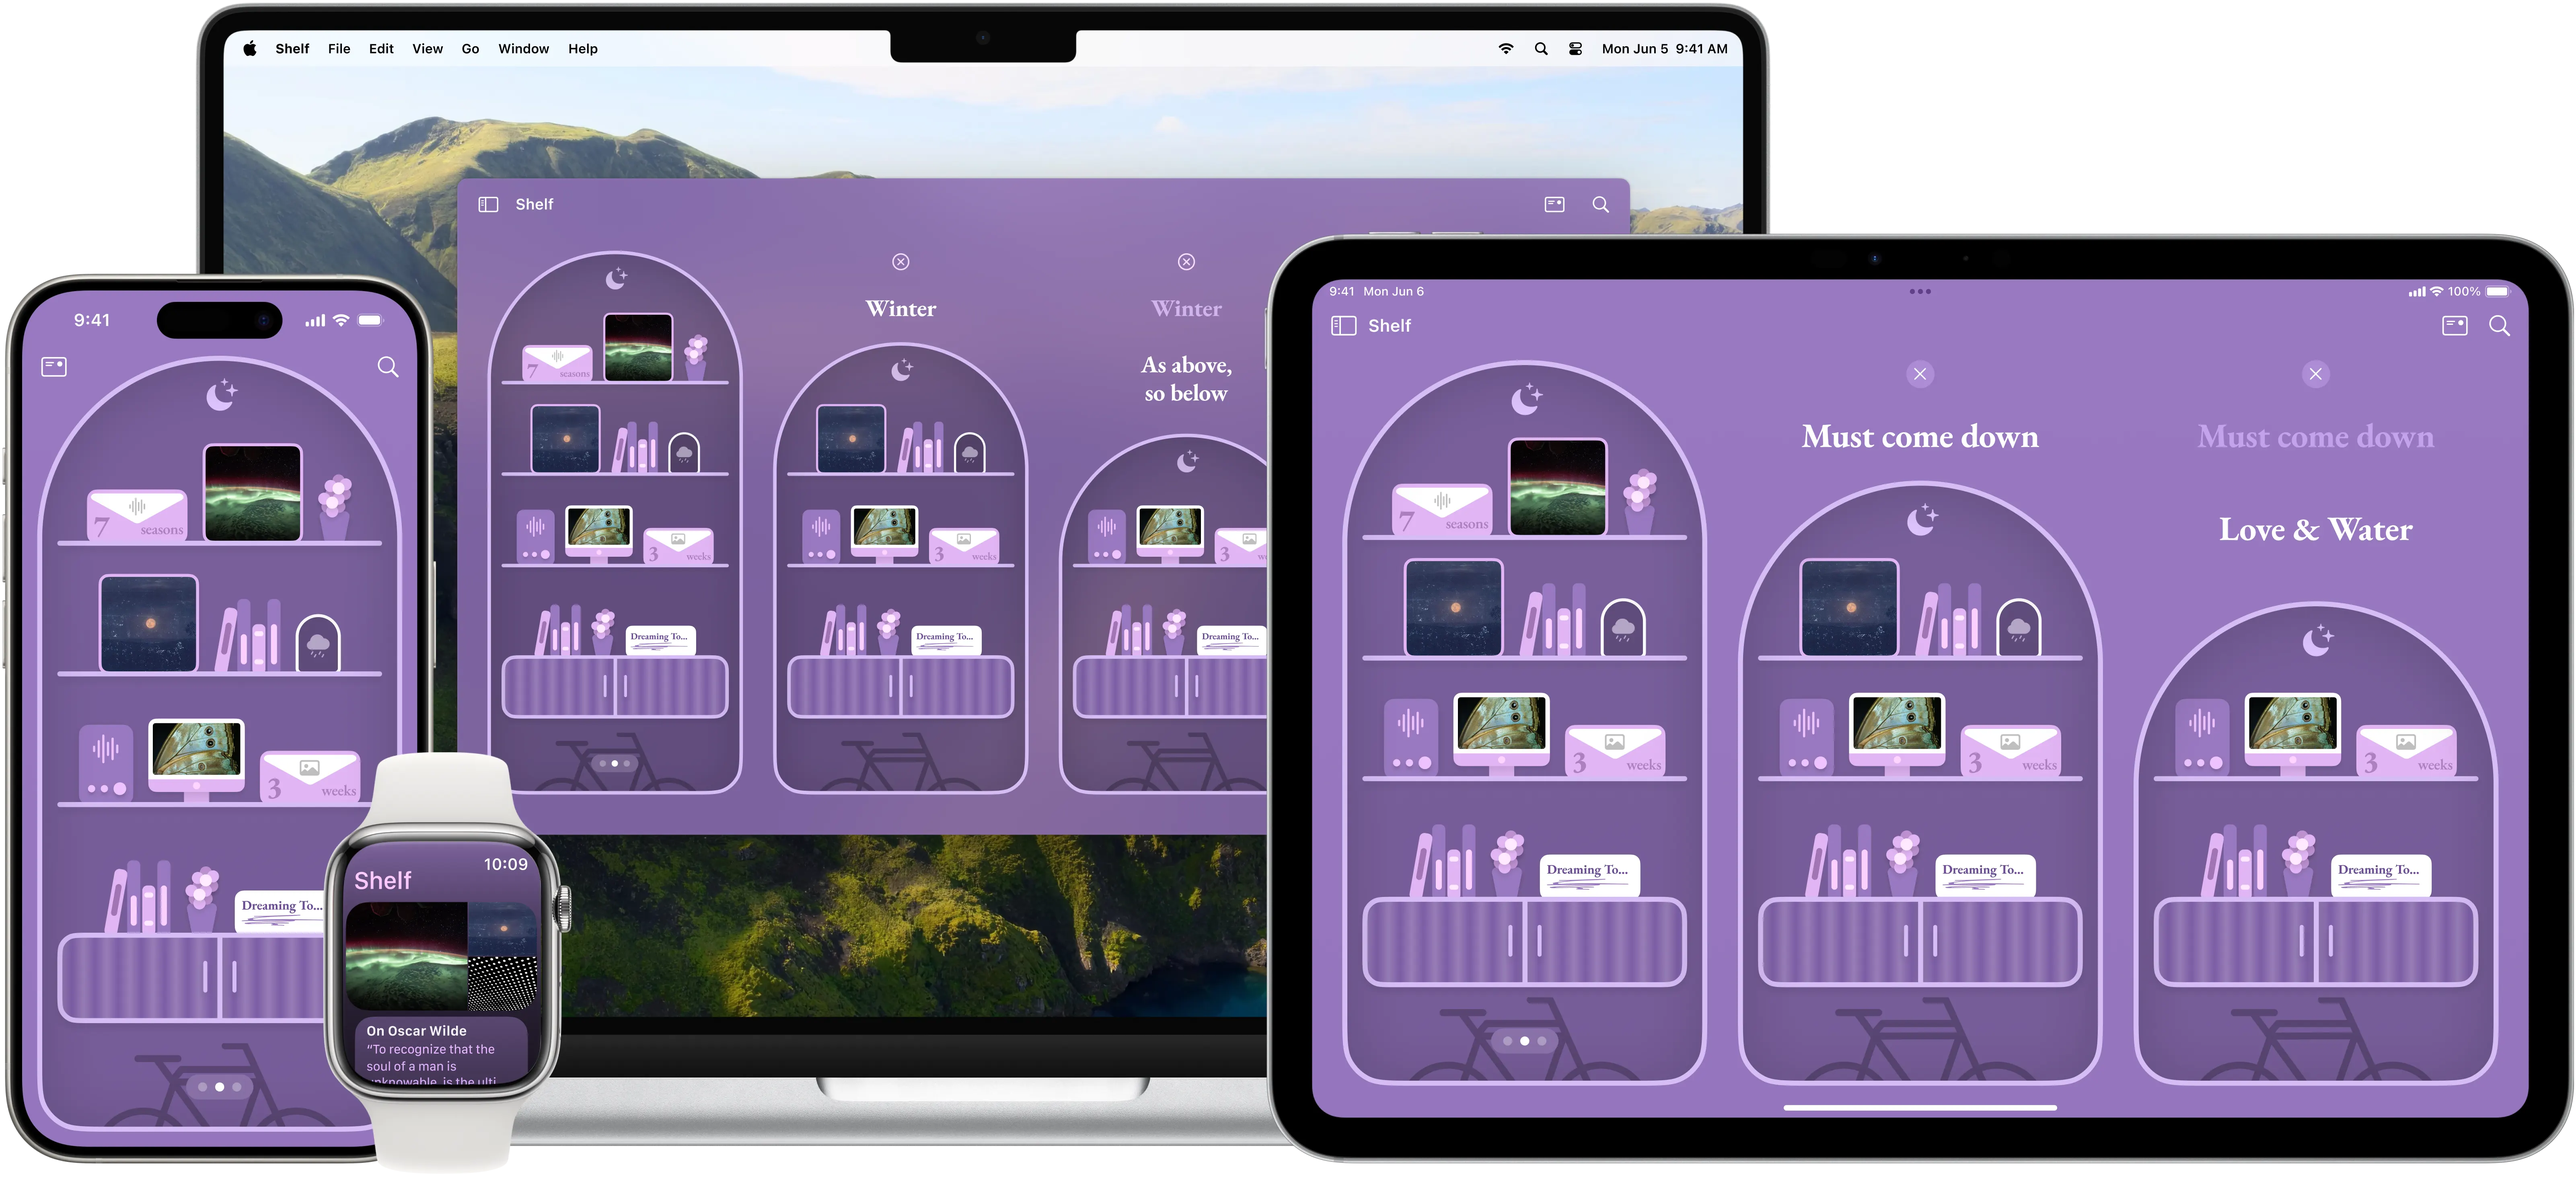
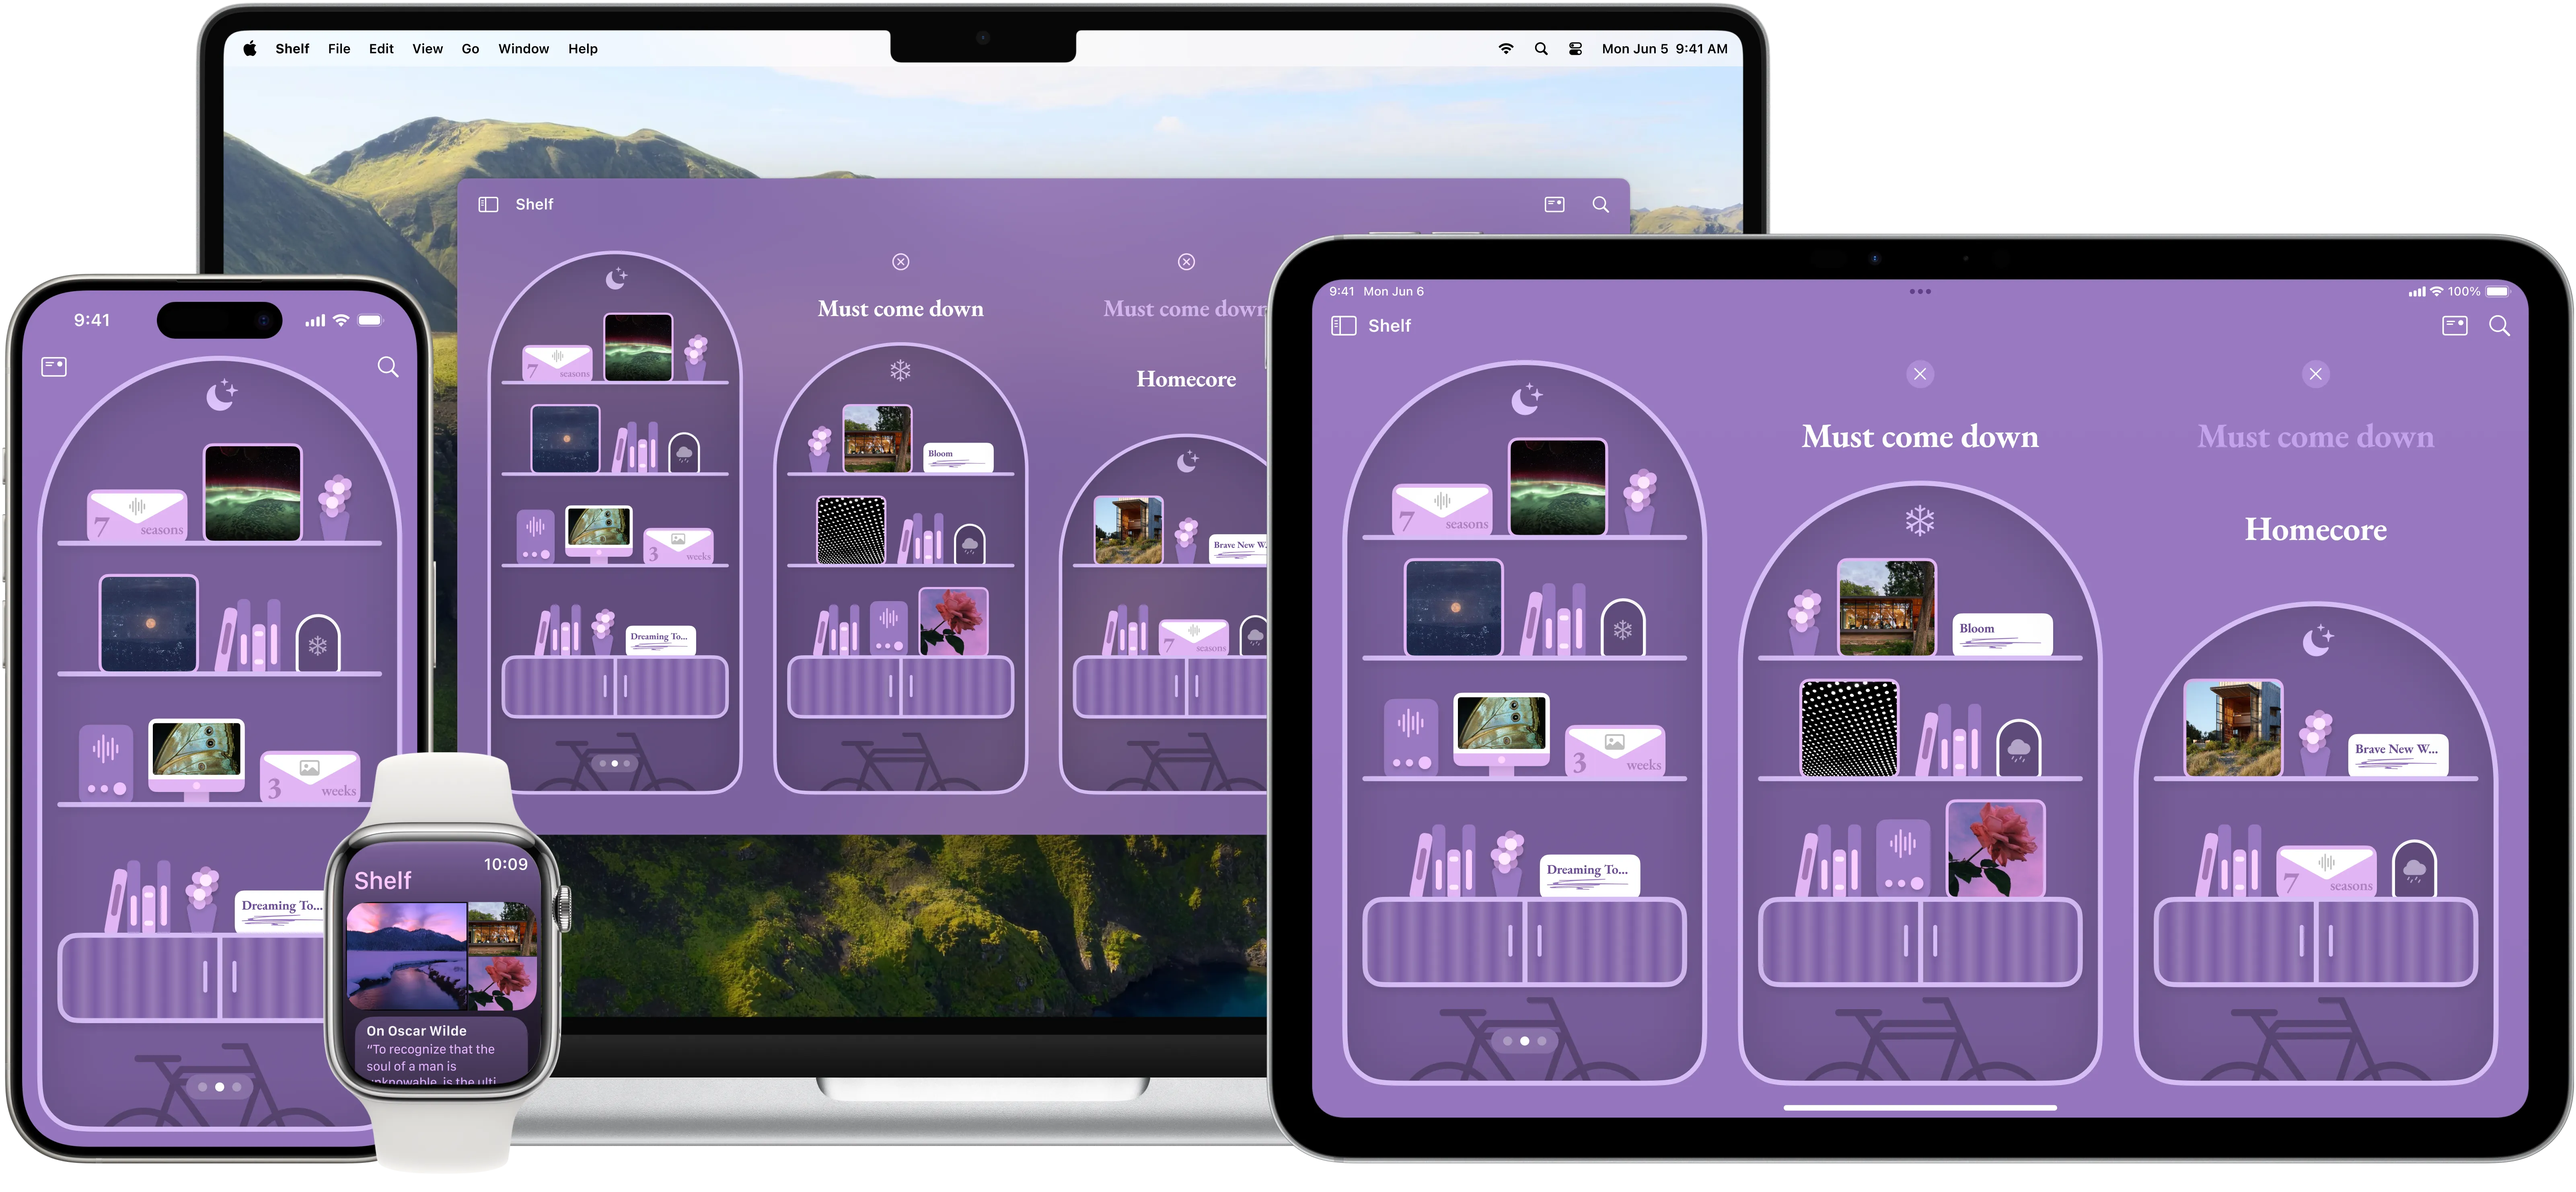
New ima

diff --git a/case.css b/case.css
@@ -206,7 +206,6 @@ nav {
 .key {
     gap: var(--secondary-section-gap);
     padding-block: var(--secondary-block-padding);
-    padding-top: 100px;
     text-align: center;
 
     .text {
@@ -275,10 +274,10 @@ nav {
 
 @keyframes moveAnimation {
     0% {
-        transform: translateX(1600px);
+        transform: translateX(1700px);
     }
     25% {
-        transform: translateX(1600px);
+        transform: translateX(1700px);
         opacity: 0.75;
     }
     75% {
@@ -302,10 +301,6 @@ nav {
 /* iOS */
 .workflow {
 
-    .align {
-        height: 780px;
-    }
-
     .eyebrow, .text {
         align-items: center;
         text-align: center;
@@ -316,32 +311,32 @@ nav {
         grid-auto-flow: column;
         width: -moz-fit-content;
         width: fit-content;
-        margin-inline: 265px;
+        margin-inline: 253px;
         transition: all 0.6s cubic-bezier(0.28, 0.11, 0.32, 1);
         position: relative;
         align-items: start;
+
+        .eyebrow {
+            height: 100%;
+            justify-content: center;
+            width: 480px;
+            gap: 20px;
+    
+            img {
+                min-width: 260px;
+            }
+    
+            p {
+                width: 190px;
+            }
+        }
     }
 
     holder {
-        max-width: 450px;
-        max-height: 730px;
+        max-width: 480px;
+        max-height: 790px;
         opacity: 0.5;
         transition: all 0.6s cubic-bezier(0.28, 0.11, 0.32, 1);
-    }
-
-    .eyebrow {
-        height: 100%;
-        justify-content: center;
-        width: 450px;
-        gap: 20px;
-
-        img {
-            width: 260px;
-        }
-
-        p {
-            width: 190px;
-        }
     }
 
     .current {
@@ -349,7 +344,7 @@ nav {
     }
 
     .iPhone {
-        max-width: 800px;
+        max-width: 840px;
     }
 
     .row {
@@ -373,13 +368,12 @@ nav {
     align-self: center;
     justify-self: center;
     z-index: 3;
-    margin-bottom: 160px;
-    gap: 370px;
+    gap: 400px;
 
     .left, .right {
         display: flex;
         width: 100%;
-        height: 600px;
+        height: 700px;
         opacity: 0.5;
         cursor: pointer;
         padding: 30px;
@@ -436,7 +430,7 @@ nav {
     padding-bottom: 0;
 
     img {
-        width: 1760px;
+        width: 1845px;
     }
 }
 
@@ -461,7 +455,11 @@ nav {
     }
 
     img {
-        width: 1180px;
+        width: 1420px;
+    }
+
+    .imac {
+        width: 1280px;
     }
 
     .short {
@@ -494,13 +492,14 @@ nav {
     background: white;
 
     .vis-1, .vis-2 {
-        aspect-ratio: 2600/1500;
         height: 1000px;
+        width: 100%;
         max-width: 1800px;
-    }    
-
-    .vis-2 {
-        aspect-ratio: 2900/1800;
+        background-image: url("Im/shelf/vision-1.webp");
+    } 
+    
+    .vis-2{
+        background-image: url("Im/shelf/vision-2.webp");
     }
 }
 
@@ -657,7 +656,7 @@ nav {
     background: #F5F7F9;
 
     img {
-        width: 1200px;
+        width: 1280px;
     }
 
     .row {
@@ -690,36 +689,36 @@ nav {
         align-items: center;
         gap: 10px;
 
+        .color {
+            display: flex;
+            justify-content: center;
+            align-items: center;
+            box-sizing:content-box;
+            border-radius: 100px;
+            min-width: 38px;
+            min-height: 38px;
+            margin: 3px;
+    
+            .paint {
+                border-radius: 100px;
+                min-width: 32px;
+                min-height: 32px;
+                box-shadow: inset 0 5px 5px rgba(0, 0, 0, 0.15);
+            }
+    
+            .slate { background: linear-gradient(to bottom, #7389B4 0%, #7389B4 50%, #BDD1F0 50%, #BDD1F0 100%); }
+            .blue { background: linear-gradient(to bottom, #56ADD3 0%, #56ADD3 50%, #D9CEC6 50%, #D9CEC6 100%); }
+            .pink { background: linear-gradient(to bottom, #F66386 0%, #F66386 50%, #FFC0B2 50%, #FFC0B2 100%); }
+            .purple { background: linear-gradient(to bottom, #9979C1 0%, #9979C1 50%, #E2B5F5 50%, #E2B5F5 100%); }
+            .green { background: linear-gradient(to bottom, #2D915B 0%, #2D915B 50%, #E1B984 50%, #E1B984 100%); }
+        }
+
         p {
             font-size: 12px;
             line-height: 16px;
             color: var(--primary);
             opacity: 0;
         }
-    }
-
-    .color {
-        display: flex;
-        justify-content: center;
-        align-items: center;
-        box-sizing:content-box;
-        border-radius: 100px;
-        min-width: 38px;
-        min-height: 38px;
-        margin: 3px;
-
-        .paint {
-            border-radius: 100px;
-            min-width: 32px;
-            min-height: 32px;
-            box-shadow: inset 0 5px 5px rgba(0, 0, 0, 0.15);
-        }
-
-        .slate { background: linear-gradient(to bottom, #7389B4 0%, #7389B4 50%, #BDD1F0 50%, #BDD1F0 100%); }
-        .blue { background: linear-gradient(to bottom, #56ADD3 0%, #56ADD3 50%, #D9CEC6 50%, #D9CEC6 100%); }
-        .pink { background: linear-gradient(to bottom, #F66386 0%, #F66386 50%, #FFC0B2 50%, #FFC0B2 100%); }
-        .purple { background: linear-gradient(to bottom, #9979C1 0%, #9979C1 50%, #E2B5F5 50%, #E2B5F5 100%); }
-        .green { background: linear-gradient(to bottom, #2D915B 0%, #2D915B 50%, #E1B984 50%, #E1B984 100%); }
     }
 
     .current {
@@ -736,7 +735,7 @@ nav {
 
     #family {
         aspect-ratio: 2562/1186;
-        width: 1380px;
+        width: 1420px;
         transition: background-image 0.5s ease-in-out;
     }
 }

diff --git a/shelf.html b/shelf.html
@@ -106,7 +106,7 @@
                         <p><span>Say it in a thousand words.</span></p>
                     </holder>
                     <holder>
-                        <img class="iPhone" src="Im/shelf/link-1.webp">
+                        <img class="iPhone" src="Im/shelf/voice-1.webp">
                     </holder>
                     <holder class="eyebrow">
                         <img src="Im/shelf/item-5.webp">
@@ -213,7 +213,7 @@
                     <h7>Easy to Organize</h7>
                     <h5>Drag and drop items across shelves or right into archive.</h5>
                 </div>
-                <img src="Im/shelf/mac-2.webp">
+                <img class="imac" src="Im/shelf/mac-2.webp">
             </div>
         </section>
 
@@ -231,7 +231,7 @@
         </section>
 
         <section class="vision">
-            <img src="Im/shelf/vision-1.webp" class="vis-1">
+            <div class="vis-1"></div>
         </section>
 
         <section class="vision-text">
@@ -244,7 +244,7 @@
         </section>
 
         <section class="vision">
-            <img src="Im/shelf/vision-2.webp" class="vis-2">
+            <div class="vis-2"></div>
         </section>
 
         <section class="vision-text">
